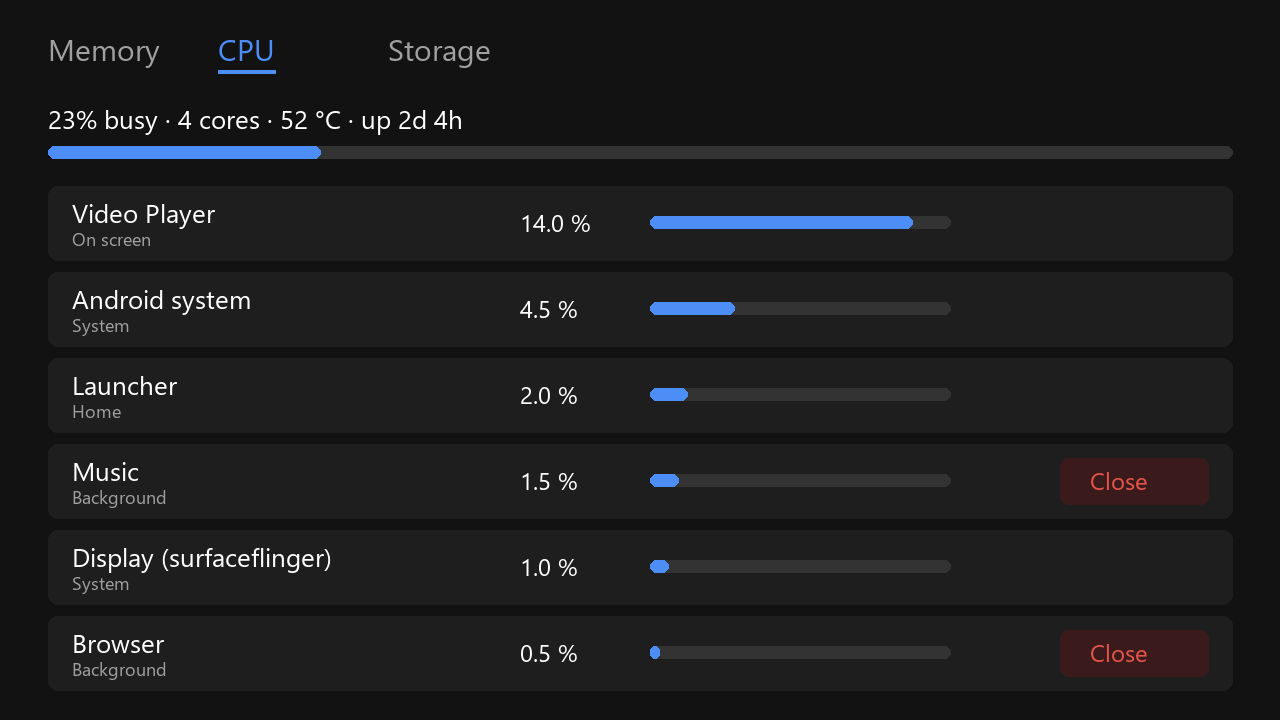
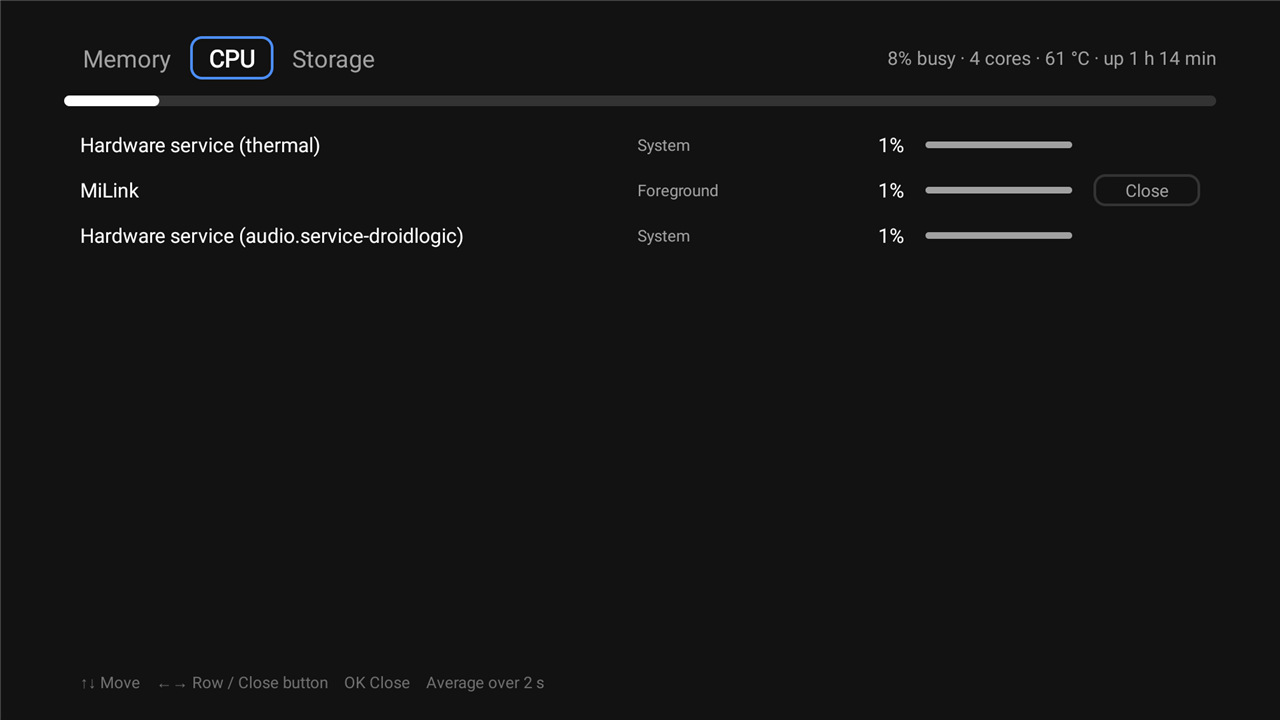
Task Manager README: real screenshots from the Mi Box
Replace the illustrative Memory, CPU and Storage renders with captures
from a Mi Box 4 (scaled to 1280x720) and update the caption.

diff --git a/taskmanager/README.md b/taskmanager/README.md
@@ -10,7 +10,7 @@ no AndroidX, built without Gradle. Package `dev.mibox.taskmanager`, minSdk 26.
 
 ![Storage tab](docs/screenshot-storage.png)
 
-*Illustrative renders with made-up apps and numbers; replace with captures from your device.*
+*Captured on a Xiaomi Mi Box 4 (Android TV 12, system language Hebrew, so some system app names are in Hebrew).*
 
 ## How it gets the data
 A normal app can't see other apps' memory or CPU, or force-stop them. So the app connects to the
